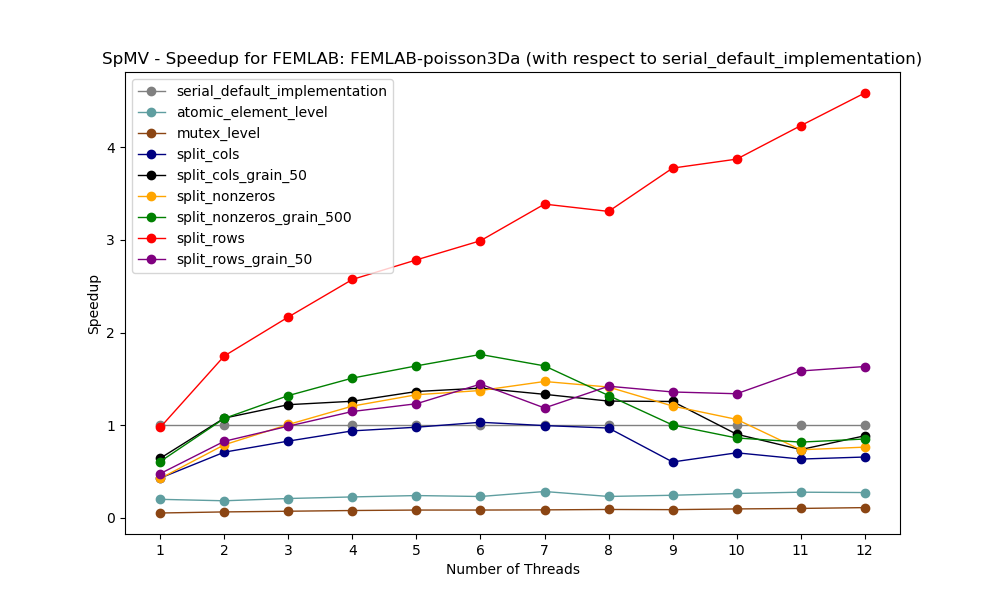
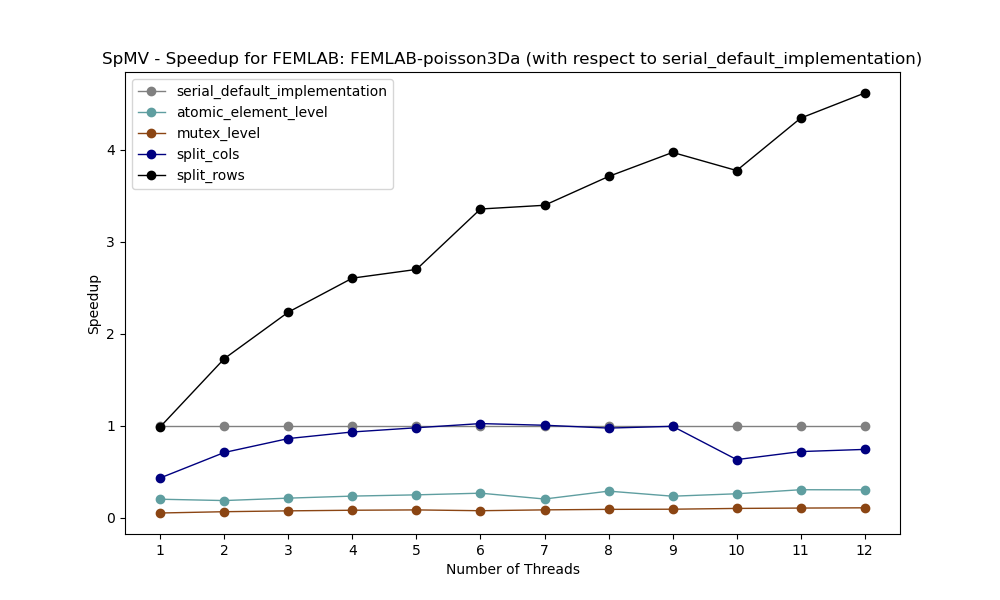
Rename algorithms; Use threadpinning

diff --git a/parallel/spmv/graph.py b/parallel/spmv/graph.py
@@ -13,14 +13,14 @@ NTHREADS = [i + 1 for i in range(12)]
 DEFAULT_METHOD = "serial_default_implementation"
 METHODS = [
     DEFAULT_METHOD,
-    "atomic_element_level",
-    "mutex_level",
-    "split_cols",
-    "split_cols_grain_50",
-    "split_nonzeros",
-    "split_nonzeros_grain_500",
-    "split_rows",
-    "split_rows_grain_50",
+    "permute_split_rows_dynamic_grain_50",
+    "permute_split_rows_finch_parallel",
+    "split_cols_dynamic_grain_50_scratchspace",
+    "split_cols_static_scratchspace",
+    "split_nonzeros_dynamic_grain_500_scratchspace",
+    "split_nonzeros_static_scratchspace",
+    "split_rows_finch_parallel_atomics",
+    "split_rows_finch_parallel_mutex",
 ]
 
 DATASETS = [
